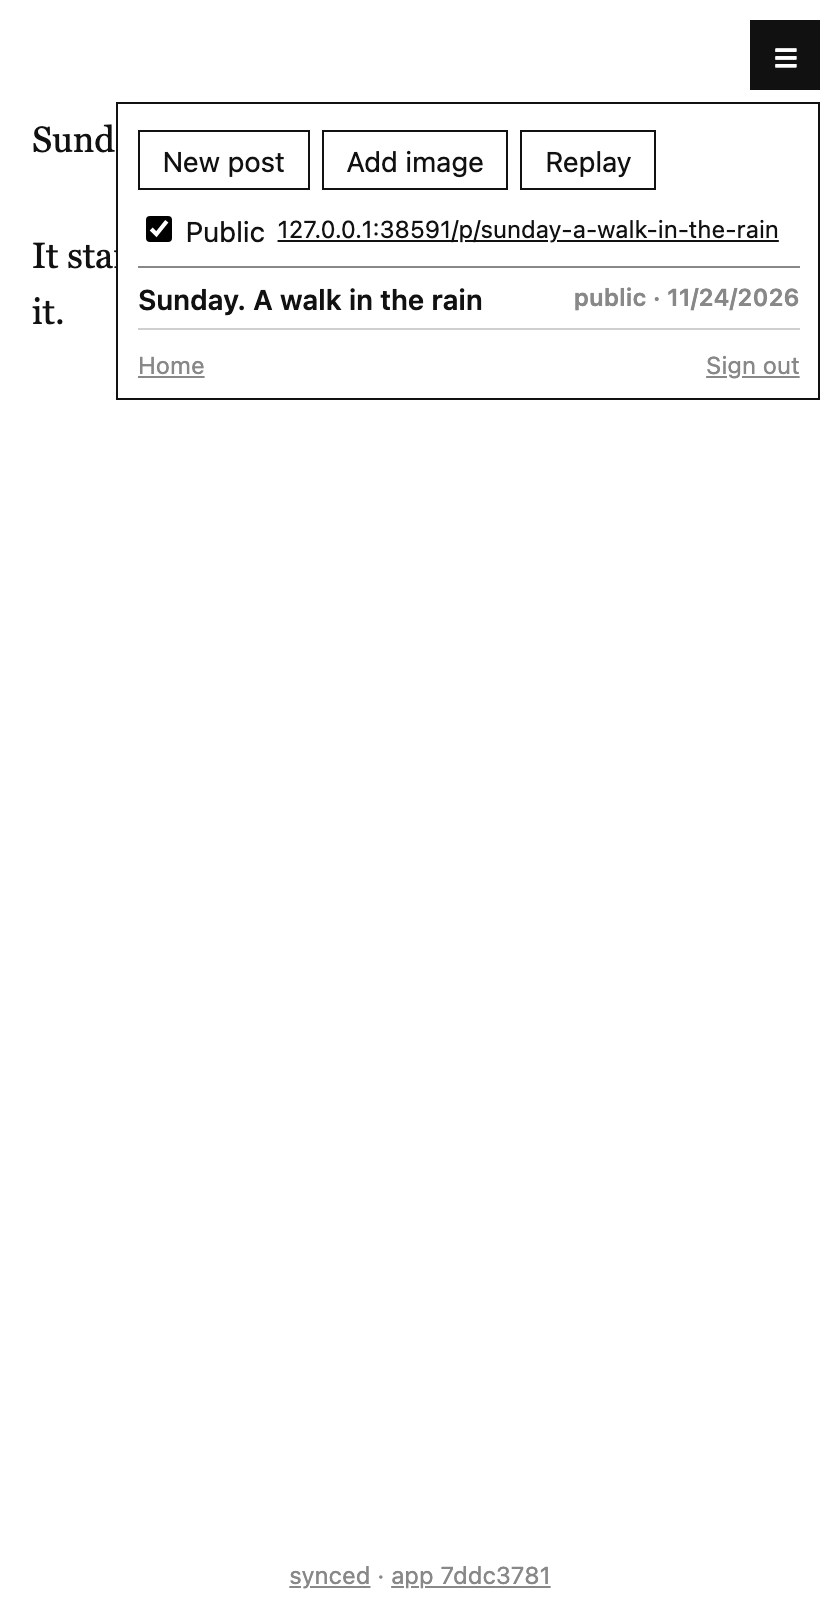
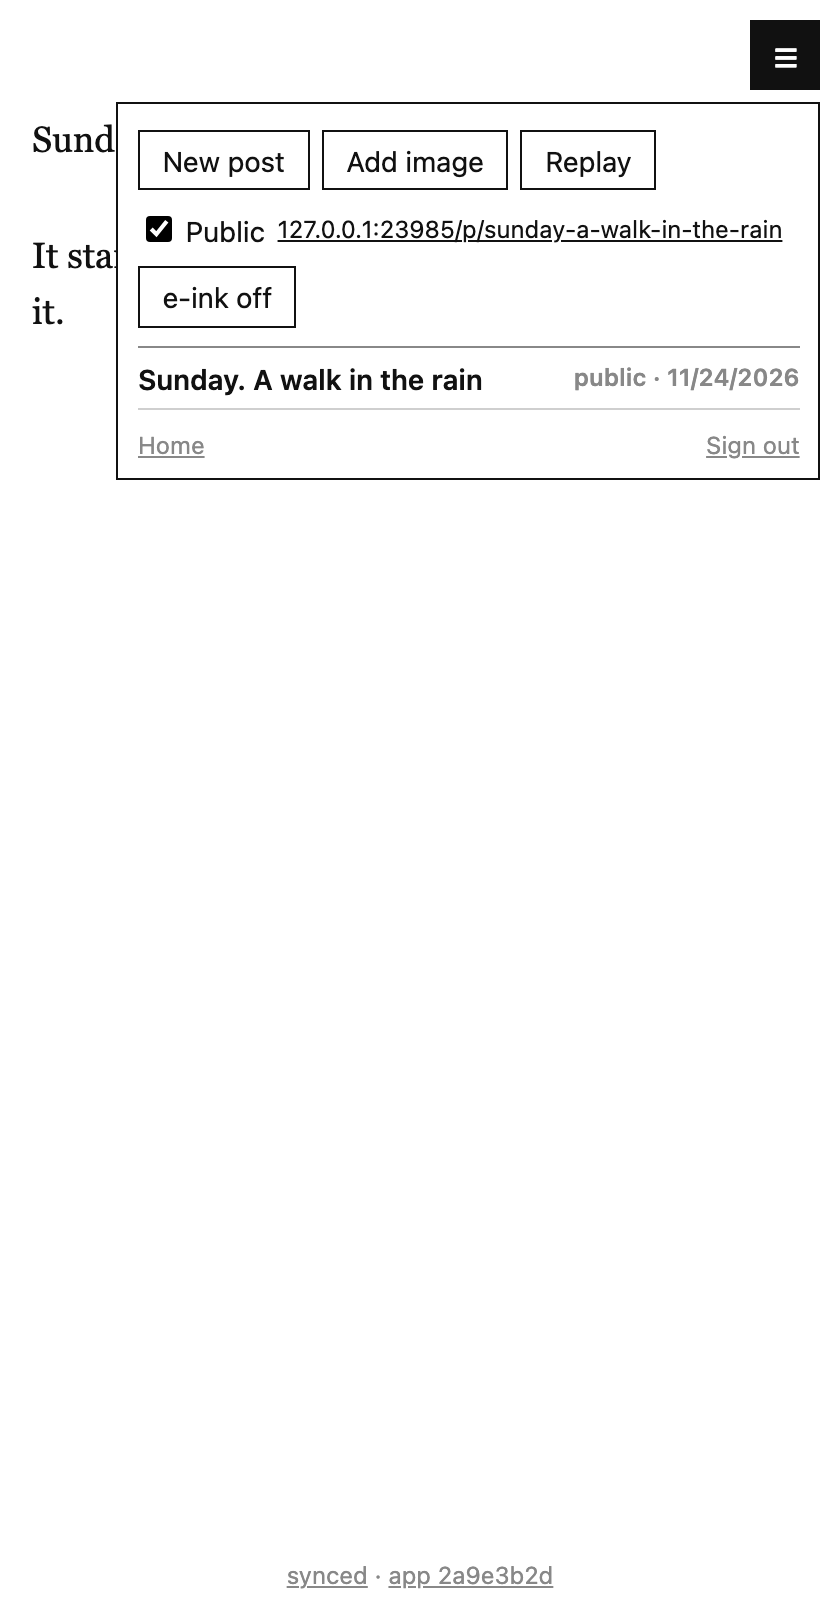
Add an e-ink mode: black on white, guessed from old Android Chrome or the model
Claude-Session: https://claude.ai/code/session_0151bm7vuED6ZHMBBoDzJXfA

Changed region(s): [[0.1548, 0.125, 0.9595, 0.3125], [0.4643, 0.9688, 0.65, 1.0], [0.3405, 0.9688, 0.4333, 1.0]]

diff --git a/test/browser.check.js b/test/browser.check.js
@@ -117,6 +117,54 @@ test('offline typing, then sync, in a browser', {skip: !playwright && 'playwrigh
     await pub.close()
   })
 
+  await t.test('e-ink: guessed from an old Android Chrome, or set by hand', async () => {
+    var android = v => 'Mozilla/5.0 (Linux; Android 12; K) AppleWebKit/537.36 (KHTML, like Gecko) Chrome/' + v + '.0.0.0 Mobile Safari/537.36'
+    var open = async (v, q) => {
+      var c = await browser.newContext({viewport: {width: 420, height: 800}, deviceScaleFactor: 2, userAgent: android(v)})
+      await c.addCookies(await ctx.cookies())
+      var p = await c.newPage()
+      p.on('pageerror', e => errors.push(e.message))
+      await p.goto(s.base + '/write/' + (q || ''))
+      await p.waitForSelector('#text')
+      return [c, p]
+    }
+    var eink = p => p.evaluate(() => document.documentElement.classList.contains('eink'))
+    var manifest = p => p.getAttribute('link[rel=manifest]', 'href')
+
+    var [c, p] = await open(111)
+    assert.equal(await eink(p), true, 'Chrome/111 on Android')
+    assert.equal(await manifest(p), '/write/manifest-eink.json')
+    await p.click('#menu-btn')
+    await p.click('#list li >> text=Sunday')   // a new device opens on a blank page
+    await until(async () => (await p.inputValue('#text')).length > 0, 'the post')
+    await p.click('#menu-btn')
+    assert.equal(await p.textContent('#eink-btn'), 'e-ink on')
+    assert.equal(await p.isVisible('#fs-btn'), true)
+    await p.screenshot({path: path.join(__dirname, '..', 'docs', 'eink.png')})
+    await p.goto(s.base + '/write/?eink=0')
+    assert.equal(await eink(p), false, '?eink=0')
+    await p.goto(s.base + '/write/')
+    assert.equal(await eink(p), false, '?eink=0 is remembered')
+    await p.click('#menu-btn')
+    await p.click('#eink-btn')
+    assert.equal(await eink(p), true, 'the switch turns it on')
+    await p.reload()
+    assert.equal(await eink(p), true, 'the switch is remembered')
+    await c.close()
+
+    ;[c, p] = await open(157)
+    assert.equal(await eink(p), false, 'Chrome/157 on Android')
+    assert.equal(await manifest(p), '/write/manifest.json')
+    await p.click('#menu-btn')
+    assert.equal(await p.textContent('#eink-btn'), 'e-ink off')
+    assert.equal(await p.isVisible('#fs-btn'), false, 'full screen is an e-ink switch')
+    await p.goto(s.base + '/write/?eink=1')
+    assert.equal(await eink(p), true, '?eink=1')
+    await p.goto(s.base + '/write/')
+    assert.equal(await eink(p), true, '?eink=1 is remembered')
+    await c.close()
+  })
+
   await t.test('the footer names the running version', async () => {
     assert.match(await page.textContent('#version'), /^app [0-9a-f]{8}$/)
     assert.deepEqual(errors, [])

diff --git a/public/app.js b/public/app.js
@@ -187,7 +187,7 @@ async function uploadAll(){
 var menu = $('menu')
 function toggleMenu(open){
   menu.hidden = open == null ? !menu.hidden : !open
-  if (!menu.hidden){ drawMenu(); syncAll() }
+  if (!menu.hidden){ drawMenu(); drawSwitches(); syncAll() }
 }
 $('menu-btn').onclick = () => toggleMenu()
 document.addEventListener('keydown', e => { if (e.key == 'Escape' && $('replay').hidden) toggleMenu() })
@@ -233,6 +233,37 @@ $('logout').onclick = async () => {
   if ([...posts.values()].some(waiting) && !confirm('Some edits haven\'t reached the server yet. They stay on this device. Sign out anyway?')) return
   await post('/api/logout', {})
   location.href = '/login'
+}
+
+// ---- e-ink (html.eink, guessed by the script in index.html) and, there, full screen on the first tap
+
+var html = document.documentElement, fsAsked = false
+var fsWanted = () => { try { return localStorage.getItem('simple-log-fullscreen') != '0' } catch (e){ return true } }
+function drawSwitches(){
+  var on = html.classList.contains('eink')
+  $('eink-btn').textContent = on ? 'e-ink on' : 'e-ink off'
+  $('eink-btn').classList.toggle('on', on)
+  $('fs-btn').textContent = fsWanted() ? 'full screen on' : 'full screen off'
+  $('fs-btn').classList.toggle('on', fsWanted())
+}
+function fullScreen(){
+  if (fsAsked || !html.classList.contains('eink') || !fsWanted() || document.fullscreenElement || !html.requestFullscreen) return
+  fsAsked = true
+  try { html.requestFullscreen({navigationUI: 'hide'}).catch(() => {}) } catch (e){}
+}
+document.addEventListener('pointerdown', fullScreen, {capture: true, passive: true})
+$('eink-btn').onclick = () => {
+  var on = !html.classList.contains('eink')
+  window.eink(on)
+  try { localStorage.setItem('simple-log-eink', on ? '1' : '0') } catch (e){}
+  drawSwitches()
+}
+$('fs-btn').onclick = () => {
+  var on = !fsWanted()
+  try { localStorage.setItem('simple-log-fullscreen', on ? '1' : '0') } catch (e){}
+  if (on){ fsAsked = false; fullScreen() }
+  else if (document.fullscreenElement) document.exitFullscreen().catch(() => {})
+  drawSwitches()
 }
 
 // ---- replay: the post's whole log, played back at the speed it was typed (pauses shortened)

diff --git a/public/index.html b/public/index.html
@@ -11,6 +11,26 @@
 <meta name="theme-color" content="#ffffff" media="(prefers-color-scheme: light)">
 <meta name="theme-color" content="#111111" media="(prefers-color-scheme: dark)">
 <link rel="stylesheet" href="/write/app.css">
+<script>
+// e-ink (a Boox and the like): html.eink, set here before anything is drawn. ?eink=1 / ?eink=0
+// or the menu's switch decide for this device; otherwise it's a guess: an old Android Chrome
+// (Boox ships an old WebView) or an e-ink model name.
+(function(){
+  var d = document.documentElement, K = 'simple-log-eink', q = /[?&]eink=([01])/.exec(location.search), set = q && q[1]
+  window.eink = function(on){
+    d.classList.toggle('eink', on)
+    document.querySelector('link[rel=manifest]').href = on ? '/write/manifest-eink.json' : '/write/manifest.json'
+  }
+  try { if (set) localStorage.setItem(K, set); else set = localStorage.getItem(K) } catch (e){}
+  if (set == '1' || set == '0') return eink(set == '1')
+  var m = /Android.*Chrome\/(\d+)\./.exec(navigator.userAgent)
+  if (m && +m[1] < 125) eink(true)
+  var u = navigator.userAgentData
+  if (u && u.getHighEntropyValues) u.getHighEntropyValues(['model']).then(function(v){
+    if (/boox|onyx|palma|leaf|poke|nova|note ?air|tab ?(ultra|mini|x)|go ?(6|7|10)/i.test(v.model || '')) eink(true)
+  }, function(){})
+})()
+</script>
 </head>
 <body>
 <textarea id="text" spellcheck="true" autocapitalize="sentences" placeholder="Write." aria-label="The post"></textarea>
@@ -19,6 +39,7 @@
 <div id="menu" hidden>
   <div class="row"><button id="new">New post</button><button id="image">Add image</button><button id="replay-btn">Replay</button></div>
   <div class="row"><label><input type="checkbox" id="public"> Public</label> <a id="public-link" target="_blank"></a></div>
+  <div class="row"><button id="eink-btn">e-ink off</button><button id="fs-btn">full screen on</button></div>
   <ul id="list"></ul>
   <div class="row small"><a href="/">Home</a> <button id="logout" class="link">Sign out</button></div>
 </div>

diff --git a/public/app.css b/public/app.css
@@ -28,4 +28,12 @@ button.link{border:0;padding:0;background:none;color:inherit;text-decoration:und
 #replay-text .caret{border-left:2px solid var(--fg);margin-left:-1px}
 #replay .controls{position:fixed;left:0;right:0;bottom:1.8rem;display:flex;gap:.4rem;justify-content:center;align-items:center;padding:0 1rem}
 #scrub{flex:1;max-width:24rem;accent-color:var(--fg)}
+/* e-ink: contrast, not size. Black on white, no greys, nothing that moves */
+html.eink{--fg:#000;--bg:#fff;--muted:#444;--line:#000}
+html.eink *{transition:none !important;animation:none !important;box-shadow:none !important;text-shadow:none !important}
+html.eink #list,html.eink #list li{border-color:#000}
+html.eink #text::placeholder{color:#444;opacity:1}
+html.eink ::selection{background:#000;color:#fff}
+#fs-btn{display:none}
+html.eink #fs-btn{display:inline-block}
 [hidden]{display:none !important}

diff --git a/server.js b/server.js
@@ -29,7 +29,7 @@ try { config = JSON.parse(fs.readFileSync(path.join(DATA, 'config.json'), 'utf8'
 ;[POSTS, MEDIA, SITE, path.join(SITE, 'p')].forEach(d => fs.mkdirSync(d, {recursive: true}))
 
 // the app's version: a hash of its files, so any change to them reaches phones by itself
-var SHELL = ['index.html', 'app.js', 'app.css', 'ot.js', 'sync.js', 'sw.js', 'manifest.json', 'icon-192.png', 'icon-512.png']
+var SHELL = ['index.html', 'app.js', 'app.css', 'ot.js', 'sync.js', 'sw.js', 'manifest.json', 'manifest-eink.json', 'icon-192.png', 'icon-512.png']
 var VERSION = crypto.createHash('sha256').update(SHELL.map(f => fs.readFileSync(path.join(PUBLIC, f))).join('')).digest('hex').slice(0, 8)
 
 // ---- posts: all of them in memory, each one's log on disk

diff --git a/public/sw.js b/public/sw.js
@@ -4,7 +4,7 @@
 // the new copy in the background, and use it from the next launch.
 var VERSION = '__VERSION__'
 var CACHE = 'simple-log-' + VERSION
-var SHELL = ['/write/', '/write/app.js', '/write/app.css', '/write/ot.js', '/write/sync.js', '/write/manifest.json', '/write/icon-192.png', '/write/icon-512.png']
+var SHELL = ['/write/', '/write/app.js', '/write/app.css', '/write/ot.js', '/write/sync.js', '/write/manifest.json', '/write/manifest-eink.json', '/write/icon-192.png', '/write/icon-512.png']
 
 // every fetch gets a deadline, so a dead connection can't hang the install
 function get(url){

diff --git a/README.md b/README.md
@@ -18,6 +18,10 @@ this folder in Claude Code and say "help me set this up". [CLAUDE.md](CLAUDE.md)
   bottom says whether everything has reached the server (`synced`, `offline · 12 edits on this
   device`, `sign in to sync`), and which version of the app is running; tap it to force an update.
 - **Replay**: the post being typed again, pauses shortened, at 1×, 4×, 16× or 64×, with a slider.
+- **E-ink** (a Boox or other e-ink phone): the editor and menu go pure black on white, with no
+  greys and nothing that animates. It turns on by itself on an old Android Chrome (below 125, as
+  Boox ships) or an e-ink model name; `?eink=1` / `?eink=0` or the menu's "e-ink" switch decide
+  for good on that device. There, the first tap also goes full screen ("full screen" switch).
 - **Public pages** (`/`, `/p/<name>`, `/feed.xml`): a title, a date, the text and its pictures.
   No scripts, no tracking.
 
@@ -48,6 +52,7 @@ public/                the writing app (served at /write/)
   ot.js                apply / diff / transform edits (also used by the server)
   sync.js              one post's unsent edits and how they catch up (also used by the tests)
   sw.js manifest.json  offline and install-to-home-screen
+  manifest-eink.json   the same, full screen, for e-ink devices
   login.html           the sign-in page
 bin/passphrase.js      set or change the passphrase, site title and address
 deploy/                setup.sh (run on the server), nginx-site.conf, simple-log.service,

diff --git a/CLAUDE.md b/CLAUDE.md
@@ -248,6 +248,10 @@ Sign in on the phone first (`/login`), then:
 - **iPhone (Safari):** the Share button, "Add to Home Screen". The installed app doesn't share
   Safari's sign-in, so it asks once more: tap the footer's `sign in to sync`.
 
+If their phone has an e-ink screen (a Boox, say), tell them about e-ink mode: black on white,
+nothing that animates, full screen on the first tap. It usually turns itself on; if not, the
+menu's "e-ink off" switch turns it on (or open `/write/?eink=1` once).
+
 It opens full screen like an app. **Check:** in airplane mode, open it, type a sentence (the
 footer says `offline · N edits on this device`), turn airplane mode off, tap the footer: `synced`.
 
